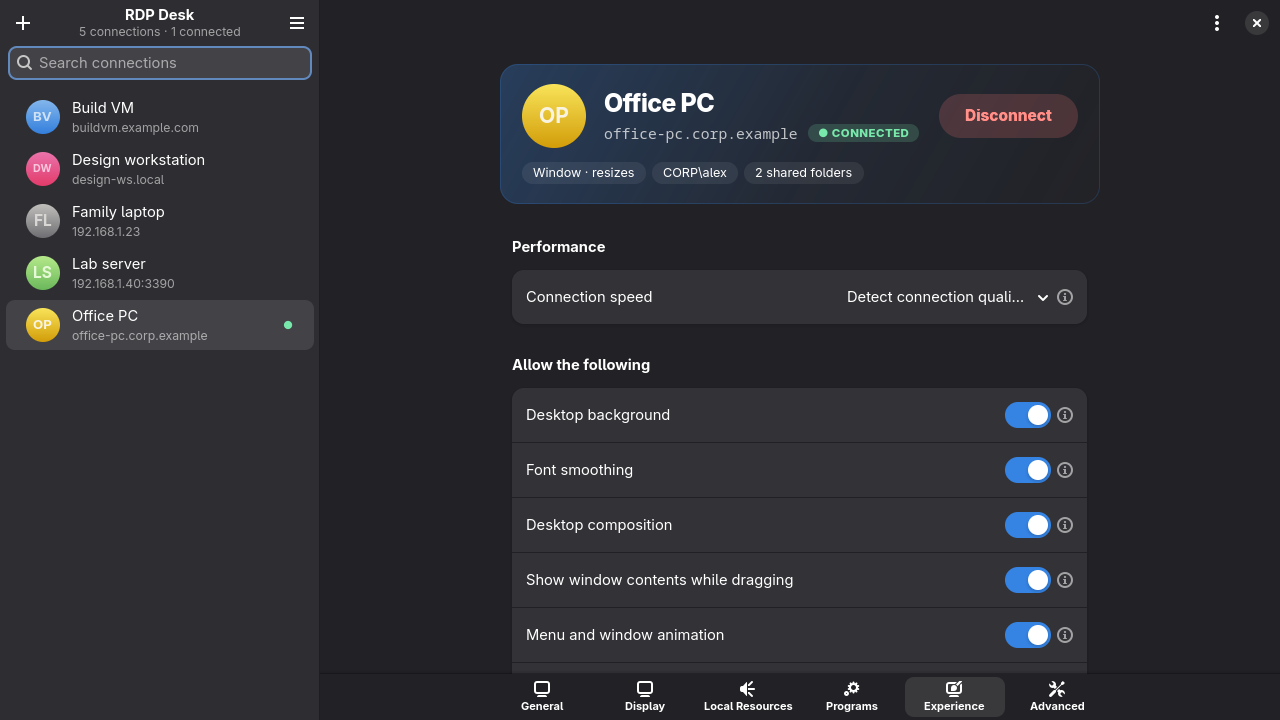
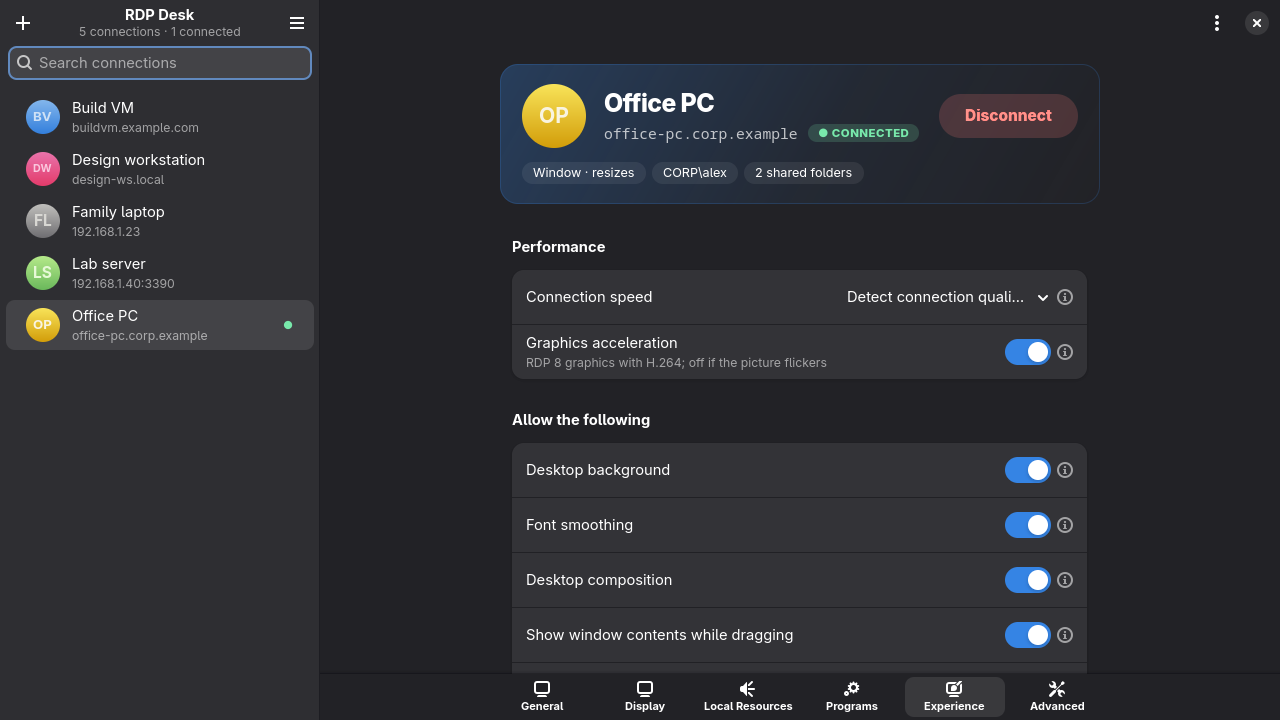
Add a Graphics acceleration switch (Experience tab)
Off connects without the RDP 8 graphics pipeline (FreeRDP -gfx), which
stops the black flashing some Windows VMs show after an update. Stored
in the app-only key "rdpdesk graphics"; shown as a banner chip when off.

diff --git a/rdpdesk.py b/rdpdesk.py
@@ -20,6 +20,7 @@ VERSION = "0.1.0"
 APP_ID = "io.github.rdpdesk"
 DATA = Path(os.environ.get("XDG_DATA_HOME") or Path.home() / ".local/share") / "rdpdesk"
 FOLDERS_KEY = "rdpdesk folders"  # app-only key (JSON list of paths); FreeRDP and Windows skip unknown keys
+GFX_KEY = "rdpdesk graphics"  # app-only key: 0 = connect without the RDP 8 graphics pipeline (FreeRDP -gfx)
 # FreeRDP 3 clients, best first: the SDL one can ask about certificates and sizes itself to the window.
 CLIENTS = ("sdl-freerdp3", "sdl-freerdp", "xfreerdp3", "wlfreerdp3", "xfreerdp", "wlfreerdp")
 # ponytail: SDL full screen fails on Wayland (FreeRDP 3.32 + SDL 3.4: "virtual desktop width 80"),
@@ -164,6 +165,7 @@ TABS = [
                 ("3", "Satellite (2 – 16 Mbps, high latency)"), ("4", "High-speed broadband (2 – 10 Mbps)"),
                 ("5", "WAN (10 Mbps or more, high latency)"), ("6", "LAN (10 Mbps or more)"),
                 ("7", "Detect connection quality automatically")]),
+            R(GFX_KEY, "Graphics acceleration", default="1", subtitle="RDP 8 graphics with H.264; off if the picture flickers"),
         ]),
         ("Allow the following", "", [
             R("disable wallpaper", "Desktop background", "inv"),
@@ -243,6 +245,7 @@ HELP = {
     "remoteapplicationcmdline": "Extra arguments for the RemoteApp program, e.g. the file it should open.",
     # Experience
     "connection type": "Tells the remote computer how fast your connection is, so it can switch off visual effects to stay quick. 'Detect connection quality automatically' measures it and is right almost always.",
+    GFX_KEY: "The modern RDP 8 graphics stream (RemoteFX / H.264 video encoding): smoother and lighter on the network. Some Windows builds and virtual machines flicker or flash black with it, especially after a Windows update; turning it off uses the older drawing method, which is steady everywhere.",
     "disable wallpaper": "Show the remote computer's wallpaper. Turn it off to save data on slow connections.",
     "allow font smoothing": "ClearType smoothing for text: easier to read, costs a little more data.",
     "allow desktop composition": "Windows' transparency, blur and window shadow effects.",
@@ -310,6 +313,8 @@ def client_args(rdp, client, user, password):
             skipped.append(path)
         else:
             args.append(f"/drive:{Path(path).name or 'root'},{path}")
+    if rdp.get(GFX_KEY) == "0":
+        args.append("-gfx")
     # Only the SDL client can ask about an unknown certificate; the others trust it the first time.
     cert = {"0": "ignore", "1": "deny"}.get(rdp.get("authentication level"))
     cert = cert or (None if "sdl-" in Path(client).name else "tofu")
@@ -635,6 +640,8 @@ class Window(Adw.ApplicationWindow):
             out.append("Via RD Gateway")
         if g("administrative session") == "1":
             out.append("Admin session")
+        if g(GFX_KEY) == "0":
+            out.append("No graphics acceleration")
         return out
 
     def build_group(self, title, description, items):

diff --git a/test_rdpdesk.py b/test_rdpdesk.py
@@ -44,6 +44,9 @@ with tempfile.TemporaryDirectory() as d:
     assert not any(a.startswith("/cert") for a in r.client_args(f, "/usr/bin/sdl-freerdp3", "", None)[0])
     assert "/cert:tofu" in r.client_args(f, "/usr/bin/xfreerdp3", "", None)[0], "non-SDL clients cannot ask"
     assert not any(a.startswith("/p:") for a in r.client_args(f, "x", "", None)[0])
+    assert "-gfx" not in r.client_args(f, "x", "", None)[0]
+    f.set(r.GFX_KEY, "i", "0")
+    assert "-gfx" in r.client_args(f, "x", "", None)[0], "graphics acceleration off -> -gfx"
 
 # FreeRDP's log -> plain words (this line is from a real failed connect).
 log = ["[13:24:17:099] [29336:00007298] [ERROR][com.freerdp.client.SDL] - [handleShow]: "

diff --git a/README.md b/README.md
@@ -9,7 +9,7 @@ A small GTK 4 / libadwaita app with the settings the Windows Remote Desktop clie
 
 - **Your connections in one list.** Each has its own coloured initials badge and a green dot while connected. Search them, and double-click one to connect. Each session opens in its own window, so several can run at once.
 - **A banner for every connection.** It shows the name, address and a live status (*Ready*, *Connected*, *Needs a computer*), with chips that sum up how it's set up (*Full screen*, *CORP\alex*, *2 shared folders*, *Via RD Gateway*…), plus one big Connect button.
-- **Every setting the Windows client has: 53 in all, in its six tabs.** General, Display, Local Resources, Programs, Experience and Advanced. That includes multiple monitors, remote scaling, audio and microphone, clipboard, printers, drives, USB devices, cameras, security keys, RemoteApp, the performance options, Network Level Authentication and RD Gateway.
+- **Every setting the Windows client has: 54 in all, in its six tabs.** General, Display, Local Resources, Programs, Experience and Advanced. That includes multiple monitors, remote scaling, audio and microphone, clipboard, printers, drives, USB devices, cameras, security keys, RemoteApp, the performance options, Network Level Authentication and RD Gateway.
 - **A help icon on every setting.** Hover the ⓘ to see what the setting does and when you would change it.
 - **Shared folders.** Pick folders such as Downloads or a NAS share. They appear on the remote computer as drives.
 - **Plain `.rdp` files.** Connections are stored in the format Windows uses:
@@ -80,7 +80,7 @@ Every setting has a hover help icon in the app. In brief:
 | **Display** | Window or full screen, size, *resize the remote desktop with the window*, scale to fit, remote scaling (125 %, 150 %…), all monitors / span / pick monitors, colour depth, connection bar |
 | **Local Resources** | Where sound plays, microphone, audio quality; where Windows key shortcuts go; clipboard, printers, smart cards, serial ports, all drives, USB devices, cameras, security keys, location; shared folders |
 | **Programs** | Start a program instead of the desktop; RemoteApp (one program window, no desktop) |
-| **Experience** | Connection speed (auto-detect), wallpaper, font smoothing, composition, window dragging, animations, visual styles, bitmap caching, automatic reconnect |
+| **Experience** | Connection speed (auto-detect), graphics acceleration (turn off if the picture flickers), wallpaper, font smoothing, composition, window dragging, animations, visual styles, bitmap caching, automatic reconnect |
 | **Advanced** | What to do with an unverified server certificate, Network Level Authentication, security layer negotiation, console (admin) session, RD Gateway |
 
 ## Passwords and the keyring
@@ -112,6 +112,7 @@ RDP Desk is one Python file (`rdpdesk.py`). It reads and writes `.rdp` files, sh
 - **"FreeRDP 3 is not installed"**: install your distribution's FreeRDP 3 package (`freerdp` on Arch, `freerdp3-sdl` on Debian/Ubuntu).
 - **"The computer did not answer"**: check the address, that Remote Desktop is turned on on that computer (Settings › System › Remote Desktop), and that a firewall allows port 3389.
 - **"Security negotiation failed"**: try switching *Network Level Authentication* on the Advanced tab.
+- **The picture flickers or flashes black** (often after a Windows update, especially in VMs): turn off *Graphics acceleration* on the Experience tab.
 - **A certificate warning on every connect**: normal for home PCs with a self-signed certificate. Set *If server authentication fails* to *Connect and don't warn me* only on networks you trust.
 
 ## Development
